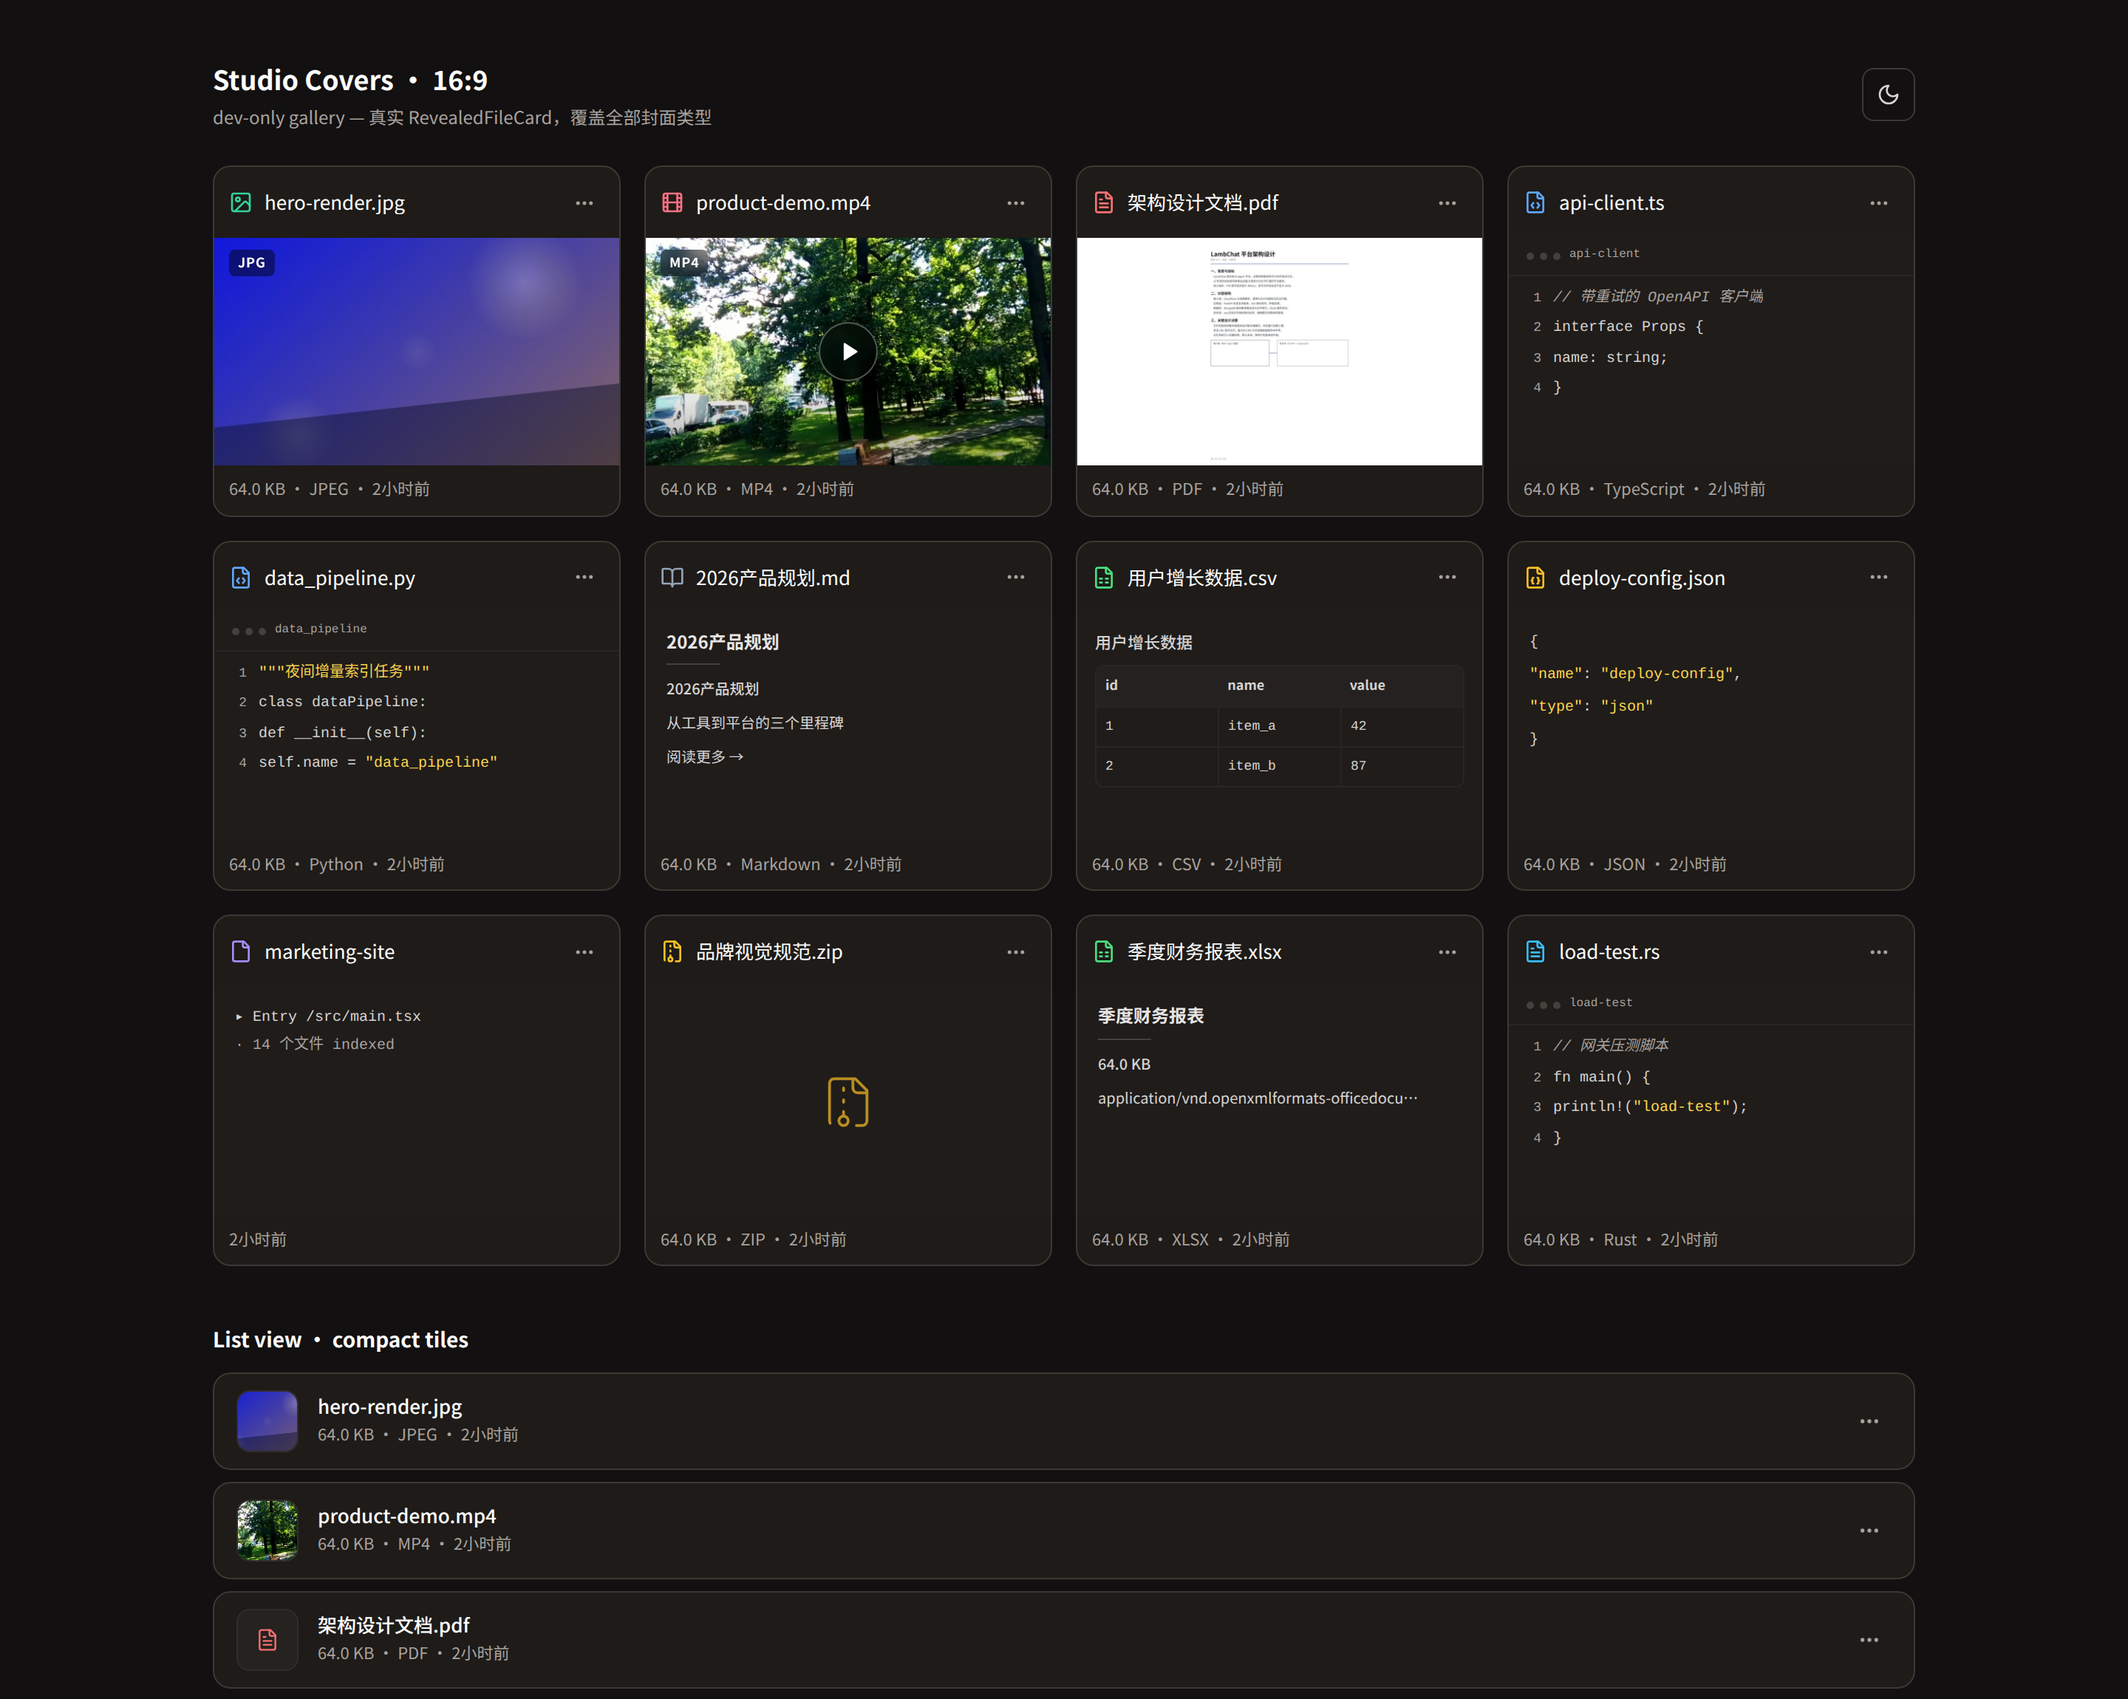
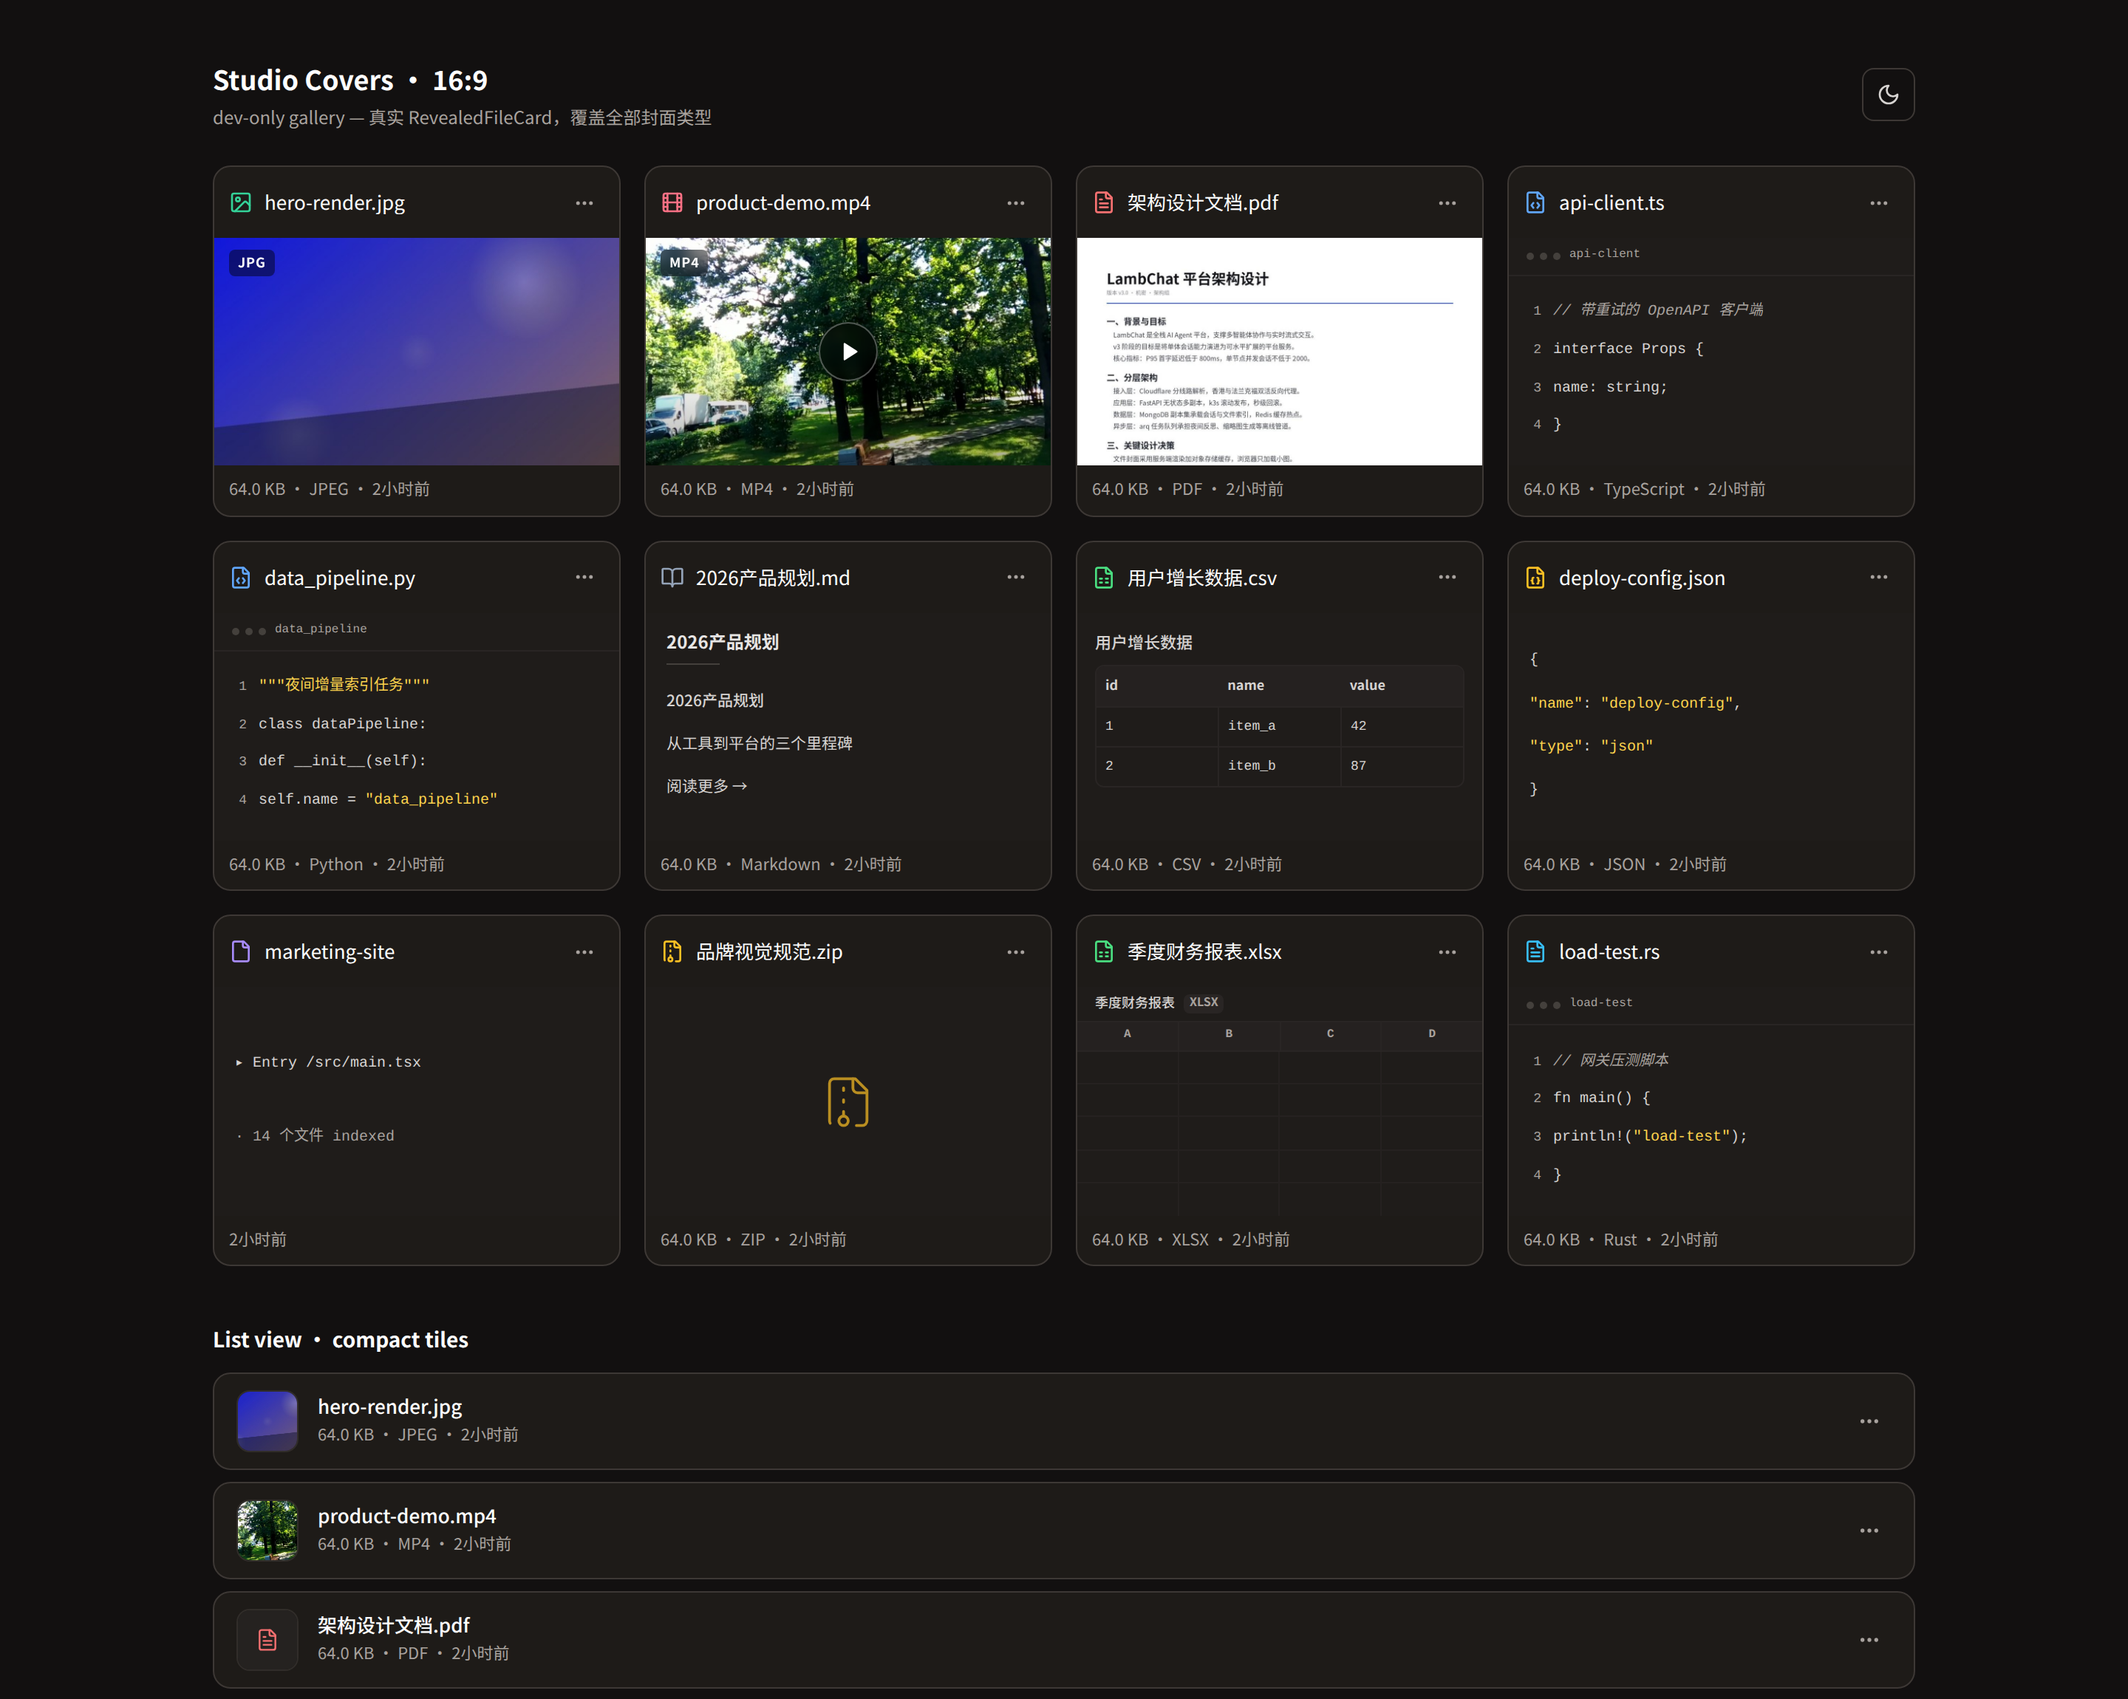
feat(files): 封面铺满 16:9——PDF 顶部裁剪放大、xlsx 表格风、文本自适应
- PDF 封面从 letterbox 白边改为 cover-crop：等比放大取首页顶部切片
  填满画布（标题区承载视觉 identity），内容更大更满；纯色页测试钉死
  四角无白边
- xlsx/xls 新增 sheet kind：电子表格风封面（A-D 列标 + 5 行网格，
  行高 flex 撑满画布，首格可放描述）
- 文本封面自适应排版：pickDocFontSize 按行数放大字号（≤2 行 11.5px，
  ≤4 行 10.5px，更多 10px），内容行 justify-evenly 均匀分布铺满——
  内容少不再稀疏，多则正常密度截断
- code/json/项目行同步 evenly 分布

diff --git a/frontend/src/components/fileLibrary/components/FileCardPreview.tsx b/frontend/src/components/fileLibrary/components/FileCardPreview.tsx
@@ -4,6 +4,7 @@ import { Play } from "lucide-react";
 import type { LucideIcon } from "lucide-react";
 import { getFullUrl } from "../../../services/api";
 import type { FileCardPreview as FileCardPreviewModel } from "../utils";
+import { pickDocFontSize } from "../utils";
 import {
   buildImageThumbUrl,
   buildProxyCoverUrl,
@@ -108,27 +109,87 @@ const DOC_LINE_WIDTHS = ["w-full", "w-11/12", "w-5/6", "w-3/4", "w-5/6"];
 
 function DocCover({ p }: { p: FileCardPreviewModel }) {
   const bodyLines = p.lines.filter(Boolean).slice(0, 5);
+  const fontSize = pickDocFontSize(bodyLines.length);
 
   return (
     <PaperCanvas>
-      <div className="flex h-full flex-col px-3.5 pb-3 pt-3">
+      <div className="flex h-full flex-col px-3.5 pb-3.5 pt-3">
         <p className="truncate text-[12px] font-semibold leading-snug text-stone-800 dark:text-stone-200">
           {p.title}
         </p>
-        <div className="mt-1.5 mb-2 h-px w-9 bg-stone-300 dark:bg-stone-700" />
-        <div className="space-y-[7px]">
+        <div className="mt-1.5 h-px w-9 bg-stone-300 dark:bg-stone-700" />
+        {/* Sparse content spreads out; dense content packs and clips. */}
+        <div className="mt-1 flex flex-1 flex-col justify-evenly overflow-hidden">
           {bodyLines.map((line, i) => (
             <p
               key={i}
+              style={{ fontSize }}
               className={clsx(
-                "truncate text-[10px] leading-[1.6] text-stone-500 dark:text-stone-400",
+                "truncate leading-[1.6] text-stone-500 dark:text-stone-400",
                 i === 0 &&
-                  "text-[10.5px] font-medium text-stone-700 dark:text-stone-300",
+                  "font-medium text-stone-700 dark:text-stone-300",
                 DOC_LINE_WIDTHS[i % DOC_LINE_WIDTHS.length],
               )}
             >
               {line}
             </p>
+          ))}
+        </div>
+      </div>
+    </PaperCanvas>
+  );
+}
+
+/* ── Sheet cover: spreadsheet grid fills the canvas ──── */
+
+const SHEET_COLS = ["A", "B", "C", "D"];
+
+function SheetCover({ p }: { p: FileCardPreviewModel }) {
+  const rows = 5;
+  return (
+    <PaperCanvas>
+      <div className="flex h-full flex-col">
+        <div className="flex items-center gap-1.5 border-b border-stone-200 px-3 py-1 dark:border-stone-800">
+          <span className="truncate text-[9px] font-medium text-stone-500 dark:text-stone-400">
+            {p.title}
+          </span>
+          <span className="shrink-0 rounded bg-stone-100 px-1 text-[8px] font-semibold text-stone-400 dark:bg-stone-800 dark:text-stone-500">
+            {p.badge}
+          </span>
+        </div>
+        <div className="flex flex-1 flex-col overflow-hidden">
+          {/* Column headers */}
+          <div className="flex border-b border-stone-200 bg-stone-100 dark:border-stone-800 dark:bg-stone-800/60">
+            {SHEET_COLS.map((col) => (
+              <span
+                key={col}
+                className="flex-1 border-r border-stone-200 py-[3px] text-center font-mono text-[8px] font-semibold text-stone-400 last:border-r-0 dark:border-stone-800 dark:text-stone-500"
+              >
+                {col}
+              </span>
+            ))}
+          </div>
+          {Array.from({ length: rows }, (_, r) => (
+            <div
+              key={r}
+              className="flex flex-1 border-b border-stone-100 last:border-b-0 dark:border-stone-800/60"
+            >
+              {SHEET_COLS.map((col, c) => {
+                const text = r === 0 && c === 0 ? p.lines[0] : "";
+                return (
+                  <span
+                    key={col}
+                    className={clsx(
+                      "flex-1 truncate border-r border-stone-100 px-1.5 py-1 text-[8.5px] text-stone-500 last:border-r-0 dark:border-stone-800/60 dark:text-stone-400",
+                      r === 0 && c === 0 && "font-medium text-stone-600 dark:text-stone-300",
+                      c === 0 && "w-1/4 flex-none",
+                    )}
+                  >
+                    {text}
+                  </span>
+                );
+              })}
+            </div>
           ))}
         </div>
       </div>
@@ -152,7 +213,7 @@ function CodeCover({ p }: { p: FileCardPreviewModel }) {
             {p.title}
           </span>
         </div>
-        <div className="flex-1 space-y-[4px] overflow-hidden px-3 py-2 font-mono text-[10px] leading-[1.65]">
+        <div className="flex flex-1 flex-col justify-evenly overflow-hidden px-3 py-2 font-mono text-[10px] leading-[1.65]">
           {p.lines.slice(0, 4).map((line, i) => (
             <div key={i} className="flex items-baseline gap-2 overflow-hidden">
               <span className="w-2.5 shrink-0 text-right text-[9px] text-stone-300 select-none dark:text-stone-600">
@@ -228,7 +289,7 @@ function DataCover({ p }: { p: FileCardPreviewModel }) {
 
   return (
     <PaperCanvas>
-      <div className="h-full space-y-[5px] overflow-hidden px-3.5 py-3 font-mono text-[10px] leading-[1.7]">
+      <div className="flex h-full flex-col justify-evenly overflow-hidden px-3.5 py-3 font-mono text-[10px] leading-[1.7]">
         {p.lines.slice(0, 5).map((line, i) => (
           <p key={i} className="truncate text-stone-600 dark:text-stone-400">
             {tokenizeCodeLine(line).map((tok, j) => (
@@ -255,7 +316,7 @@ function DataCover({ p }: { p: FileCardPreviewModel }) {
 function ProjectCover({ p }: { p: FileCardPreviewModel }) {
   return (
     <PaperCanvas>
-      <div className="flex h-full flex-col px-3.5 pb-3 pt-3 font-mono text-[10px] leading-[1.9]">
+      <div className="flex h-full flex-col justify-evenly px-3.5 pb-3 pt-3 font-mono text-[10px] leading-[1.9]">
         {p.lines.slice(0, 4).map((line, i) => (
           <p
             key={i}
@@ -468,6 +529,8 @@ export function FileCardPreview({
       return <DataCover p={preview} />;
     case "project":
       return <ProjectCover p={preview} />;
+    case "sheet":
+      return <SheetCover p={preview} />;
     case "document":
     case "markdown":
       return <DocCover p={preview} />;

diff --git a/frontend/src/components/fileLibrary/__tests__/utils.test.ts b/frontend/src/components/fileLibrary/__tests__/utils.test.ts
@@ -1,9 +1,11 @@
 import { readFileSync } from "node:fs";
 import {
+  pickDocFontSize,
   buildFileCardPreview,
   getImagePreviewNavigation,
   getPreviewableImageFiles,
   getSessionNavigationTarget,
+  pickDocFontSize,
 } from "../utils.ts";
 import type { RevealedFileItem } from "../../../services/api";
 
@@ -249,4 +251,24 @@ test("card preview lines strip replacement and control characters", () => {
   expect(preview.lines.join(" ")).not.toContain("\uFFFD");
   expect(preview.lines.join(" ")).not.toContain("\u0007");
   expect(preview.subtitle).not.toContain("\uFFFD");
+});
+
+test("doc cover font scales up when content is sparse", () => {
+  expect(pickDocFontSize(0)).toBe("11.5px");
+  expect(pickDocFontSize(2)).toBe("11.5px");
+  expect(pickDocFontSize(3)).toBe("10.5px");
+  expect(pickDocFontSize(5)).toBe("10px");
+  expect(pickDocFontSize(6)).toBe("10px");
+});
+
+test("xlsx files get the spreadsheet cover kind", () => {
+  const preview = buildFileCardPreview(
+    createFile({
+      file_name: "季度财务报表.xlsx",
+      file_type: "document",
+      mime_type: "application/vnd.openxmlformats-officedocument.spreadsheetml.sheet",
+    }),
+  );
+  expect(preview.kind).toBe("sheet");
+  expect(preview.badge).toBe("XLSX");
 });

diff --git a/frontend/src/components/fileLibrary/utils.ts b/frontend/src/components/fileLibrary/utils.ts
@@ -87,6 +87,7 @@ export type FileCardPreviewKind =
   | "project"
   | "video"
   | "pdf"
+  | "sheet"
   | "document"
   | "fallback";
 
@@ -139,6 +140,18 @@ const CODE_EXTENSIONS = new Set([
 ]);
 
 const DATA_EXTENSIONS = new Set(["CSV", "JSON", "TOML", "XML"]);
+
+const SHEET_EXTENSIONS = new Set(["XLSX", "XLS", "XLSM", "ET"]);
+
+/**
+ * Sparse content earns bigger type: the doc cover scales its body font by
+ * line count so a two-line note fills the 16:9 area instead of floating.
+ */
+export function pickDocFontSize(lineCount: number): string {
+  if (lineCount <= 2) return "11.5px";
+  if (lineCount <= 4) return "10.5px";
+  return "10px";
+}
 
 function stripExtension(fileName: string): string {
   const last = fileName.split("/").pop() || fileName;
@@ -371,6 +384,17 @@ export function buildFileCardPreview(
       lines: [],
       colorName,
       imageUrl: file.url,
+    };
+  }
+
+  if (SHEET_EXTENSIONS.has(ext)) {
+    return {
+      kind: "sheet",
+      title,
+      subtitle: description || label,
+      badge: ext,
+      lines: normalizeLines([description]),
+      colorName,
     };
   }
 

diff --git a/src/api/routes/upload_cover.py b/src/api/routes/upload_cover.py
@@ -134,15 +134,16 @@ def _key_ext(key: str) -> str:
 
 
 def render_pdf_cover(data: bytes) -> bytes:
-    """Render the first PDF page letterboxed on a white 16:9 canvas.
+    """Render the top slice of the first PDF page, cover-cropped to 16:9.
 
-    Rendered at 2x and served as JPEG so grids only ever load a small
-    raster image, never the PDF itself.
+    Only a slice is shown (the title area carries the visual identity), the
+    page is scaled up to fill the full canvas — no letterbox bars. Rendered
+    at 2x and served as JPEG so grids only ever load a small raster image,
+    never the PDF itself.
     """
     import io
 
     import pypdfium2 as pdfium
-    from PIL import Image
 
     ensure_cjk_fonts_available()
 
@@ -150,25 +151,20 @@ def render_pdf_cover(data: bytes) -> bytes:
     try:
         page = pdf[0]
         target_w = COVER_WIDTH * 2
-        scale = max(target_w / page.get_width(), 0.5)
+        target_h = COVER_HEIGHT * 2
+        # Cover-crop semantics: scale so BOTH dimensions overflow the canvas
+        scale = max(target_w / page.get_width(), target_h / page.get_height())
         img = page.render(scale=scale).to_pil().convert("RGB")
     finally:
         pdf.close()
 
-    canvas = Image.new("RGB", (COVER_WIDTH * 2, COVER_HEIGHT * 2), "white")
-    ratio = min(canvas.width / img.width, canvas.height / img.height)
-    fitted = img.resize(
-        (round(img.width * ratio), round(img.height * ratio)),
-    )
-    canvas.paste(
-        fitted,
-        (
-            (canvas.width - fitted.width) // 2,
-            (canvas.height - fitted.height) // 2,
-        ),
-    )
+    # Documents read top-first: crop from the top edge, centered horizontally.
+    left = max((img.width - target_w) // 2, 0)
+    top = 0
+    cover = img.crop((left, top, left + target_w, top + target_h))
+
     buf = io.BytesIO()
-    canvas.save(buf, format="JPEG", quality=85)
+    cover.save(buf, format="JPEG", quality=85)
     return buf.getvalue()
 
 

diff --git a/tests/api/routes/test_upload_cover_thumb.py b/tests/api/routes/test_upload_cover_thumb.py
@@ -357,3 +357,28 @@ def _bundled_font_path():
     from src.api.routes import upload_cover as cover
 
     return cover._BUNDLED_CJK_FONT
+
+
+def test_render_pdf_cover_fills_canvas_without_letterbox():
+    """A solid-color page must fill the whole 16:9 canvas — the old
+    letterbox logic would leave white bars on A4 pages."""
+    import io
+
+    from src.api.routes.upload_cover import render_pdf_cover
+
+    buf = io.BytesIO()
+    Image.new("RGB", (595, 842), (40, 80, 160)).save(buf, format="PDF")
+
+    out = render_pdf_cover(buf.getvalue())
+    cover = Image.open(io.BytesIO(out))
+    assert cover.size == (1120, 630)
+
+    corners = [
+        cover.getpixel((2, 2)),
+        cover.getpixel((1117, 2)),
+        cover.getpixel((2, 627)),
+        cover.getpixel((1117, 627)),
+    ]
+    for r, g, b in corners:
+        # Page blue, not letterbox white
+        assert abs(r - 40) < 12 and abs(g - 80) < 12 and abs(b - 160) < 12
